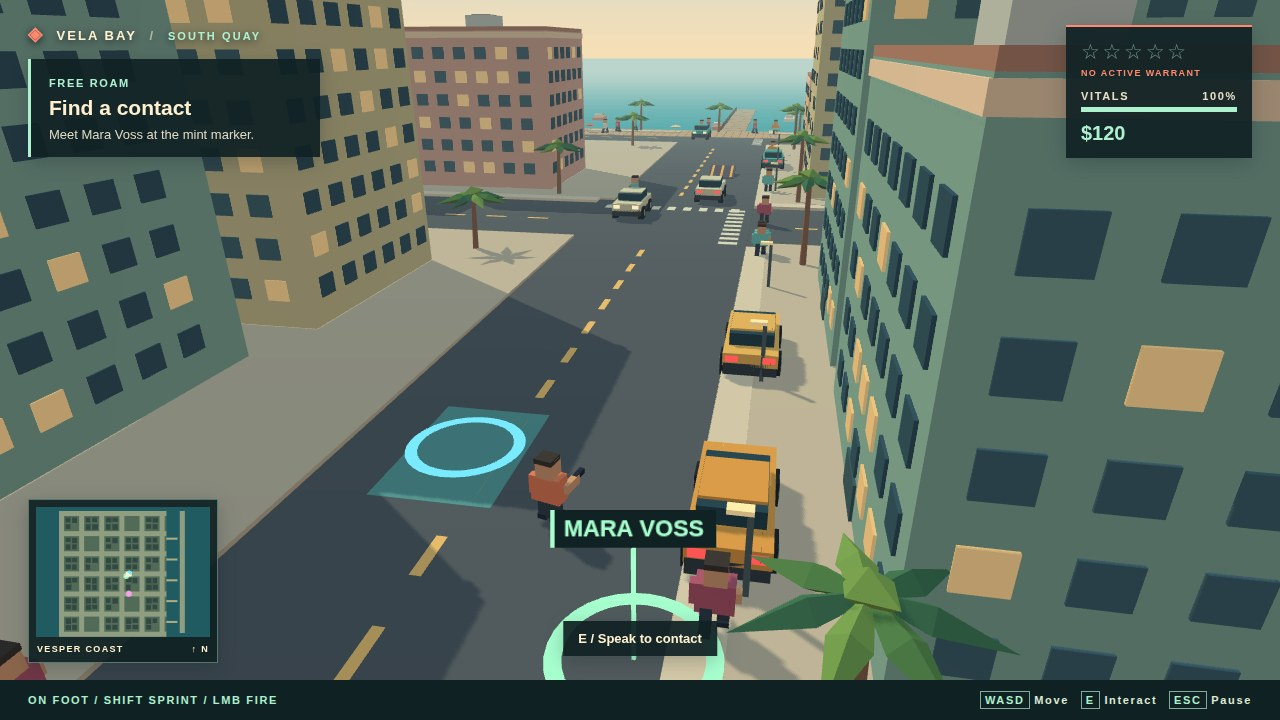
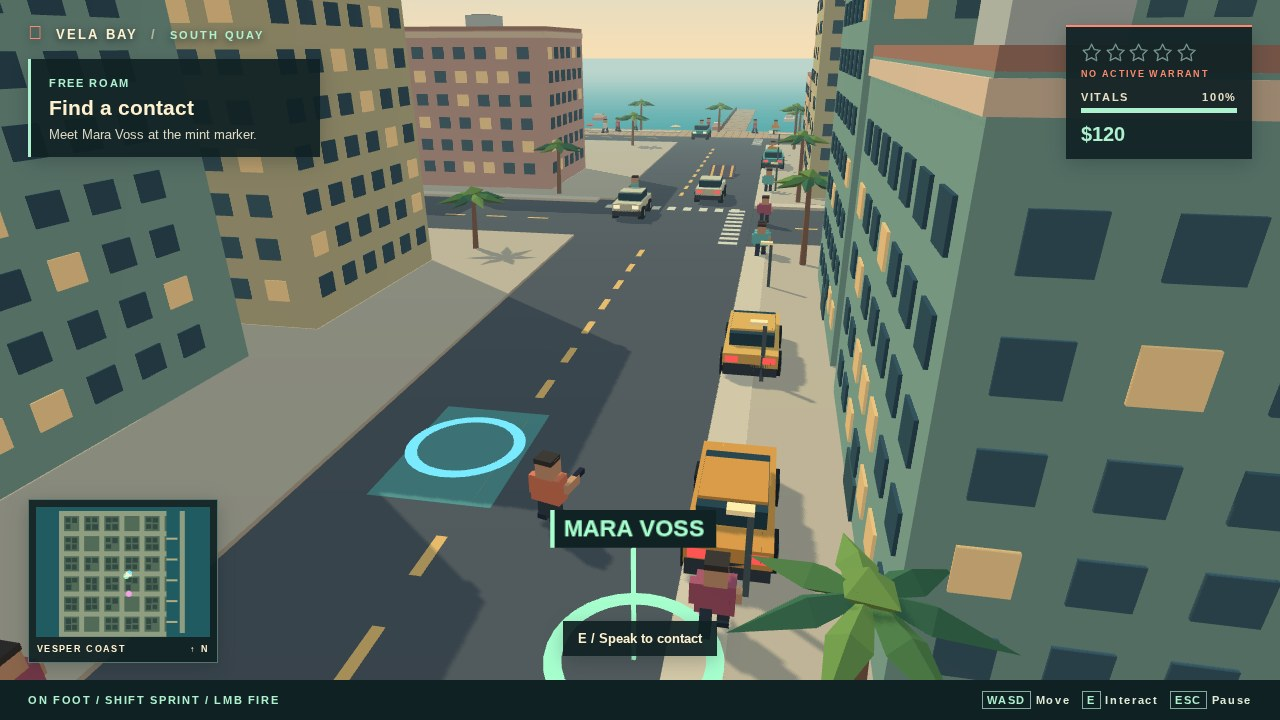
Render wanted stars as inline SVG

diff --git a/game/src/game.js b/game/src/game.js
@@ -65,6 +65,7 @@ window.addEventListener('pointerup',()=>{input.mouse.down=false;});
 window.addEventListener('pointercancel',()=>{input.mouse.down=false;});
 
 let hudCache={};
+const wantedStar='<svg viewBox="0 0 24 24" aria-hidden="true"><path d="M12 2.5 15 8.6 21.8 9.6 16.9 14.4 18 21.2 12 18 6 21.2 7.1 14.4 2.2 9.6 9 8.6Z"/></svg>';
 function set(id,content){
   if(hudCache[id]===content)return;
   hudCache[id]=content;$(id).textContent=content;
@@ -80,8 +81,11 @@ function hud(){
     s.stage==='escape'||(s.wanted&&!job)?'Break line of sight or drive to the Pay & Spray.':
     job?job.detail:next?'Meet '+next.by+' at the mint marker.':'Three contracts paid out.');
   if(hudCache.stars!==s.wanted){
-    hudCache.stars=s.wanted;$('stars').innerHTML='<b>'+'★'.repeat(s.wanted)+'</b>'+'☆'.repeat(5-s.wanted);
-    $('stars').setAttribute('aria-label',s.wanted+' of 5 wanted stars');
+    hudCache.stars=s.wanted;
+    const stars=$('stars');
+    stars.innerHTML=wantedStar.repeat(5);
+    Array.from(stars.children).forEach((star,i)=>star.classList.toggle('filled',i<s.wanted));
+    stars.setAttribute('aria-label',s.wanted+' of 5 wanted stars');
   }
   set('heat',s.wanted?s.heli?.lock?'SEARCHLIGHT LOCK':s.alert?'POLICE IN PURSUIT':s.heli?'AIR UNIT SEARCHING':'OUT OF SIGHT':'NO ACTIVE WARRANT');
   const hp=Math.ceil(p.hp);

diff --git a/game/index.html b/game/index.html
@@ -12,7 +12,7 @@
 <header id="brand"><span class="mark">◈</span> VELA BAY <span class="muted">/</span> <span id="district">SOUTH QUAY</span></header>
 <main id="hud" hidden>
   <section id="objective"><small id="objective-label"></small><strong id="objective-text"></strong><span id="objective-detail"></span></section>
-  <section id="status"><div id="stars" aria-label="Wanted level"></div><div id="heat"></div><div class="health-label"><span>VITALS</span><span id="hp"></span></div><div class="meter"><i id="health"></i></div><div id="cash"></div></section>
+  <section id="status"><div id="stars" role="img" aria-label="Wanted level"></div><div id="heat"></div><div class="health-label"><span>VITALS</span><span id="hp"></span></div><div class="meter"><i id="health"></i></div><div id="cash"></div></section>
   <section id="radar"><canvas id="minimap" width="174" height="130" aria-label="City minimap"></canvas><div><span>VESPER COAST</span><span>↑ N</span></div></section>
   <aside id="prompt"></aside>
   <footer><span id="mode"></span><span><kbd>WASD</kbd> Move <kbd>E</kbd> Interact <kbd>ESC</kbd> Pause</span></footer>

diff --git a/game/style.css b/game/style.css
@@ -12,7 +12,9 @@ body{margin:0;overflow:hidden;background:#142b2d}
 small,.eyebrow,.health-label,#radar div,footer,.menu-footer,#heat{letter-spacing:.15em;font-weight:800;font-size:11px}
 #objective small{color:var(--mint)}#objective strong{display:block;font-size:21px;margin:5px 0}#objective-detail{font-size:13px;color:#dedac5}
 #status{top:25px;right:28px;width:186px;padding:13px 15px;border-top:2px solid var(--coral)}
-#stars{font-size:21px;letter-spacing:.13em;white-space:nowrap;color:#72908b}#stars b{color:#ffcb76}
+#stars{display:flex;align-items:center;gap:.13em;font-size:21px;height:1.2em;color:#72908b}
+#stars svg{width:1em;height:1em;fill:none;stroke:currentColor;stroke-width:1.6;stroke-linejoin:round}
+#stars .filled{color:#ffcb76;fill:currentColor}
 #heat{color:var(--coral);margin:4px 0 12px;font-size:9px}
 .health-label{display:flex;justify-content:space-between;color:#e7dfc5}.meter{height:5px;background:#3b5350;margin-top:5px}.meter i{display:block;height:100%;background:var(--mint)}
 #cash{margin-top:10px;font-size:20px;font-weight:900;color:var(--mint)}
